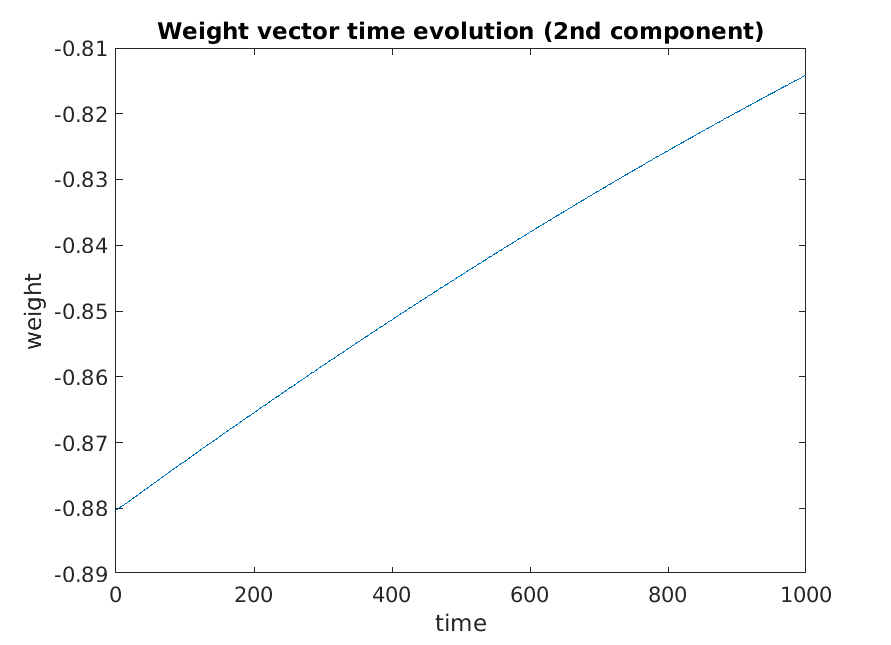
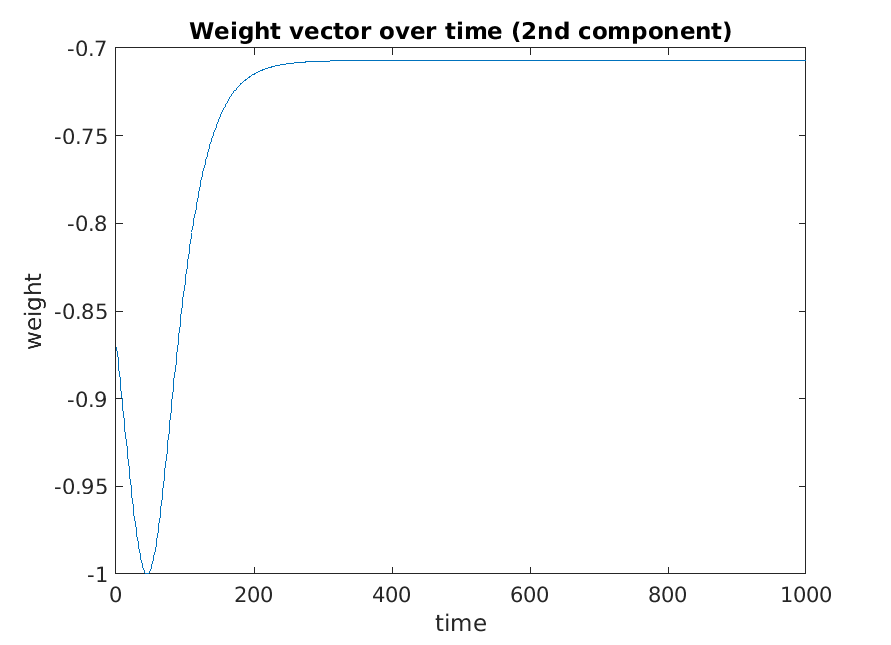
Fixed correlation matrix and refactoring (subtractive norm rule)

diff --git a/LAB2_1/Assignment3/subtractive_norm_rule.m b/LAB2_1/Assignment3/subtractive_norm_rule.m
@@ -4,86 +4,82 @@ clear variables;
 data = readtable('../lab2_1_data.csv');  % importing data as table
 U = table2array(data);  % converting table into input array
 U_size = size(U,2);  % training set dimension
-eta = 10e-6;  % learning rate
+eta = 5*10e-5;  % learning rate
 epochs=1000;  % iterations
 theta = 10e-6;  % threshold for early stopping
-Q = U'*U;  % input correlation matrix
-W_t = zeros(2, epochs);
+Q = U*U';  % input correlation matrix
 Nu = size(U,1);
 ns = ones(1,Nu);
+weights = [];
 
-W = -1 + (1+1)*rand(2,1);  % random weights initialization
-W_norm = zeros(1, epochs);
-w_norm = norm(W);
+w = -1 + 2.*rand(2,1);  % random weights initialization
+W_norm = [];
 
 for i = 1:epochs
     U = U(:,randperm(U_size));  % reshuffling dataset
+    w_norm = norm(w);
     
     for n = 1:U_size
         % linear firing model
         u = U(:,n);
-        v = W' * u;  % compute output
-        delta_W = (v * u) - ((v * (ns * u) * ns')/ Nu);
-        W = W + eta * delta_W;  % update weights
+        v = w' * u;  % compute output
+        delta_w = (v * u) - ((v * (ns * u) * ns')/ Nu);
+        w = w + eta * delta_w;  % update weights
     end
     
-    W_norm(i) = w_norm;
-    w_norm_new = norm(W);
-    W_out = W/norm(W);
-    W_t(:,i) = W_out;
+    weights(:,i) = w/norm(w);
     
+    w_norm_new = norm(w);
+    W_norm = [W_norm; w_norm_new];
     diff = w_norm_new - w_norm;
-    w_norm = w_norm_new;
     
     fprintf('Epoch: %d Norm(W): %1.5f Diff: %1.7f Theta: %1.7f \n', i, w_norm, diff, theta)
     
-    if diff < theta
+    if diff < theta  % stop condition
         break;
     end    
 end
 
-[EV, D] = eig(Q);  % computing eigenvalues and eigenvectors of Q
-[d, ind] = sort(diag(D));  % sort eigenvectors
-EV = EV(:,ind);
-ev = EV(:,1);  % take the principal eigenvector
+[eigvecs, D] = eig(Q);  % computing eigenvalues and diagonal matrix of Q
+eigvals = diag(D);  % storing eigenvalues in a separated array
+[max_eigval, max_i] = max(eigvals);  % take the principal eigenvector index
 
 % Plotting data points and comparison between final weight vector and
 % principal eigenvector of Q
 fig = figure;
-scatter(U(1,:),U(2,:), '.')
 hold on
-plotv(ev);
+plot(U(1,:),U(2,:), '.')
+plotv(eigvecs(:,max_i));
 set(findall(gca,'Type', 'Line'),'LineWidth',1.75);
-plotv(W)
-hold off
+plotv(w/norm(w))
 legend('data points','principal eigenvector','weight vector','Location', 'best')
 title('P1: data points, final weight vector and principal eigenvector of Q');
 print(fig,'P1.png','-dpng')
 
 
-x=(1:1:epochs);
-% weight evolution, first component
+x=(1:1:length(weights));  % epochs time array
+% weight over time, first component
 fig = figure;
-plot(x, W_t(1,:));
+plot(x, weights(1,:));
 xlabel('time')
 ylabel('weight')
-title('Weight vector time evolution (1st component)')
+title('Weight vector over time (1st component)')
 print(fig,'P2.1.png','-dpng')
 
-% weight evolution, second component
+% weight over time, second component
 fig = figure;
-plot(x, W_t(2,:))
+plot(x, weights(2,:))
 xlabel('time')
 ylabel('weight')
-title('Weight vector time evolution (2nd component)')
+title('Weight vector over time (2nd component)')
 print(fig,'P2.2.png','-dpng')
 
-% weight norm evolution
+% weight norm over time
 fig = figure;
 plot(x, W_norm)
 xlabel('time')
 ylabel('weight')
-title('Weight norm vector time evolution')
+title('Weight norm vector over time')
 print(fig,'P2.3.png','-dpng')
 
-save('W_t.mat','W_t');
+save('weights.mat','weights');

diff --git a/LAB2_1/Assignment2/oja_rule.m b/LAB2_1/Assignment2/oja_rule.m
@@ -49,7 +49,6 @@ fig = figure;
 hold on
 plot(U(1,:),U(2,:), '.')
 plotv(eigvecs(:,max_i));
-%plotv(ev);
 set(findall(gca,'Type', 'Line'),'LineWidth',1.75);
 plotv(w/norm(w))
 legend('data points','principal eigenvector','weight vector','Location', 'best')
@@ -83,5 +82,3 @@ title('Weight norm vector over time')
 print(fig,'P2.3.png','-dpng')
 
 save('weights.mat','weights');
-
-
